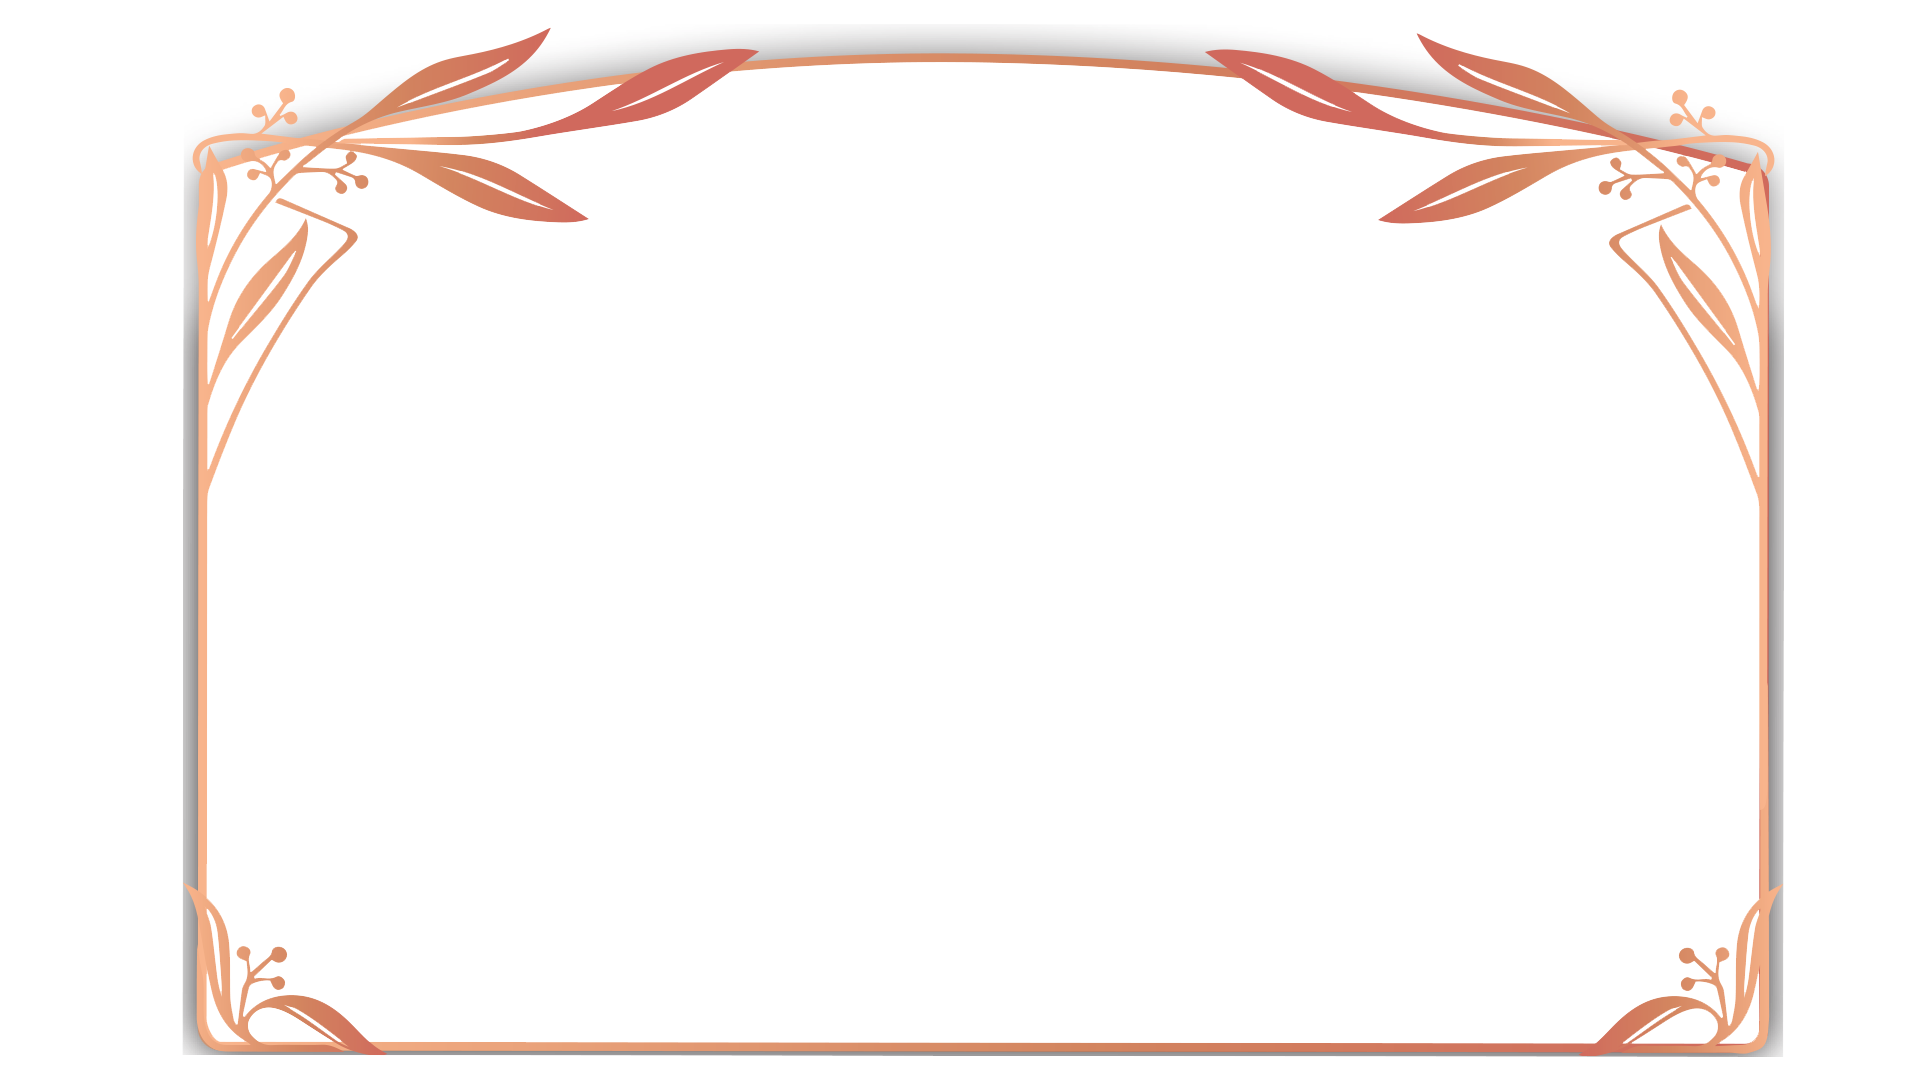
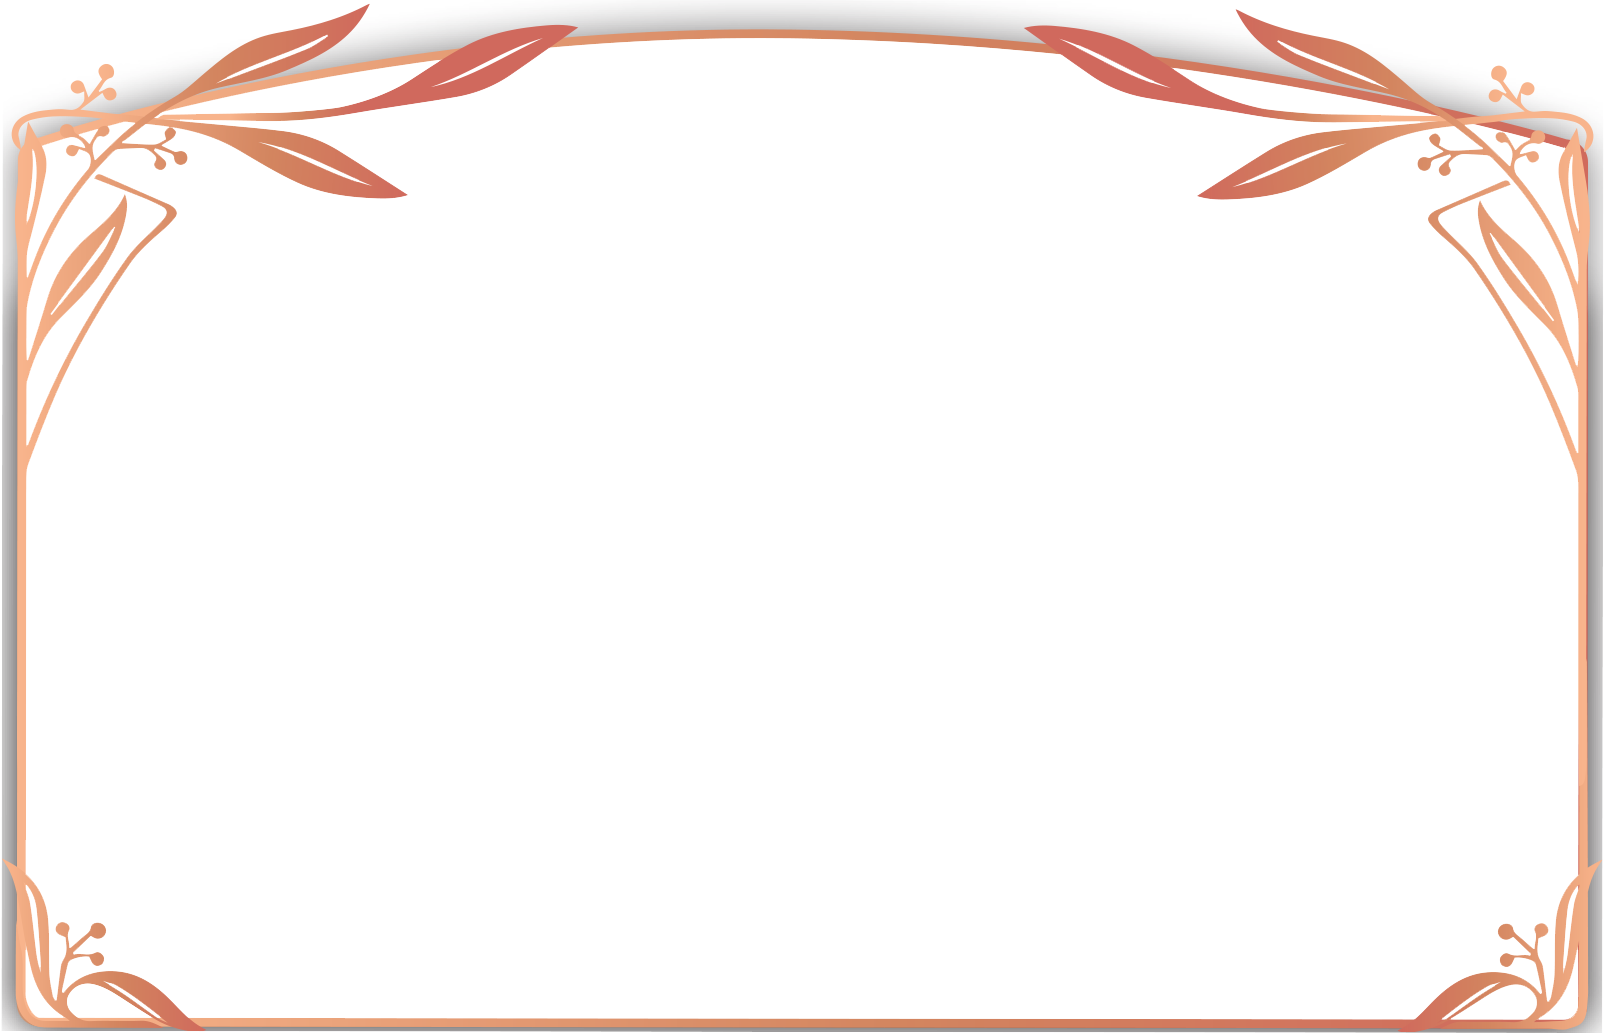
fighting with event page

Changed region(s): [[0.0, 0.0, 1.0, 1.0]]

diff --git a/src/components/EventFrame/EventFrame.jsx b/src/components/EventFrame/EventFrame.jsx
@@ -6,42 +6,98 @@ import VimeoFrame from "../../components/VimeoFrame/VimeoFrame";
 
 const useStyles = makeStyles(() => ({
   root: {
-    position: "relative",
-    display: "flex",
+    // display: "flex",
+    // position: "absolute",
+    // alignItems: "center",
+    // justifyContent: "center",
+    width: "60vw",
+    height: "80vh",
+    // "@media (max-width: 500px)": { height: "40vh" },
+    display: "grid",
     alignItems: "center",
-    justifyContent: "center",
+    "@media (max-width: 1024px)": { width: "100vw", height: "60vh" },
+  },
+  bg: {
+    backgroundColor: "rgb(69, 119, 135)",
+    justifySelf: "center",
+    alignSelf: "center",
+    height: "95%",
+    width: "97%",
+    borderTopLeftRadius: "70% 20%",
+    borderTopRightRadius: "70% 20%",
+    borderBottomRightRadius: "2%",
+    borderBottomLeftRadius: "2%",
+    gridArea: "1 / 1",
+    marginBottom: "-3vh",
+    boxShadow: "0px 20px 20px black",
+
+    // "@media (max-width: 800px)": {
+    //   width: "98%",
+    //   height: "83%",
+    // marginBottom: "0",
+    // },
+    // "@media (max-width: 500px)": {
+    //   width: "98%",
+    //   height: "85%",
+    //   marginBottom: "0",
+    // },
+    // "@media (max-width: 300px)": {
+    //   width: "98%",
+    //   height: "90%",
+    //   marginBottom: "0",
+    // },
+    // "@media (max-height: 850px)": {
+    //   width: "98%",
+    //   height: "70%",
+    //   marginBottom: "0",
+    // },
   },
   vines: {
-    // backgroundImage: `url(${vineborder})`,
-    height: "80vh",
-    width: "80vw",
-    position: "absolute",
+    backgroundImage: `url(${vineborder})`,
+    height: "100%",
+    width: "100%",
     backgroundSize: "contain",
     backgroundPosition: "center",
     backgroundRepeat: "no-repeat",
-  },
-  logo: { backgroundImage: `url(${logo})`, width: "50vw" },
-  vimeoframe: {
+    pointerEvents: "none",
+    zIndex: "5000",
+    gridArea: "1/1",
+    alignSelf: "flex-end",
+    justifySelf: "center",
     display: "flex",
+    // gridTemplateAreas: "1 2 3",
     flexFlow: "column wrap",
-    width: "60vw",
-    margin: "0 auto",
-    padding: "56.25% 0 0 0",
-    position: "relative",
+    alignItems: "center",
     "@media (max-width: 1024px)": { width: "100vw" },
+  },
+  logo: {
+    // gridArea: "2",
+    // alignSelf: "flex-start",
+    // justifySelf: "center",
+    "@media (max-width: 500px)": { width: "12vw" },
+  },
+  vimeoframe: {
+    marginBottom: "1vh",
+    gridArea: "1/1",
+    width: "95%",
+    alignSelf: "flex-end",
+    justifySelf: "center",
+    "@media (max-width: 1024px)": { width: "90%", marginBottom: "0" },
   },
 }));
 
-export default function EventFrame(props) {
+export default function EventFrame() {
   const classes = useStyles();
   return (
     <div className={classes.root}>
+      <div className={classes.bg}></div>
+      <div className={classes.vines}>
+        <img className={classes.logo} src={logo} alt="logo" />
+      </div>
+
       <div className={classes.vimeoframe}>
         <VimeoFrame />
       </div>
-      <img src={vineborder} className={classes.vines} />
-      {/* <div className={classes.vines}></div> */}
-      {/* <div className={classes.logo} /> */}
     </div>
   );
 }

diff --git a/src/App.js b/src/App.js
@@ -1,7 +1,11 @@
 import React, { useEffect, useState } from "react";
 import { Route, Switch, useHistory } from "react-router-dom";
 import theme from "./styles/muiTheme";
-import { makeStyles, ThemeProvider } from "@material-ui/core";
+import {
+  makeStyles,
+  responsiveFontSizes,
+  ThemeProvider,
+} from "@material-ui/core";
 import { UserContext } from "./context/UserContext";
 import Welcome from "./screens/Welcome/Welcome";
 import Layout from "./components/shared/Layout";
@@ -37,14 +41,21 @@ function App() {
     const response = await checkAndUpdate(guestData);
     if (response.table) {
       const tableNumber = response.table.table_number;
-      setCurrentGuest(response.guest);
+      setCurrentGuest(response);
       history.push(`/table/${tableNumber}`);
     } else {
       window.alert(response);
     }
   };
 
-  const verifyGuest = () => {};
+  const verifyGuest = () => {
+    const resp = checkLoggedIn();
+    console.log(resp);
+  };
+
+  useEffect(() => {
+    verifyGuest();
+  }, []);
 
   const logoutGuest = () => {};
 

diff --git a/src/screens/Table/Table.jsx b/src/screens/Table/Table.jsx
@@ -1,6 +1,5 @@
 import { Button, makeStyles } from "@material-ui/core";
 import React from "react";
-import { useHistory, useParams } from "react-router-dom";
 import EventFrame from "../../components/EventFrame/EventFrame";
 
 const useStyles = makeStyles((theme) => ({
@@ -8,19 +7,25 @@ const useStyles = makeStyles((theme) => ({
     display: "flex",
     flexFlow: "column wrap",
     alignItems: "center",
+    justifyContent: "center",
     margin: "0 auto",
-    paddingBottom: "10vh",
+    // paddingBottom: "10vh",
+    height: "100vh",
+    width: "100vw",
   },
 }));
 
 export default function Table({ currentGuest }) {
   const classes = useStyles();
-  const history = useHistory();
-  const params = useParams();
 
   return (
     <div className={classes.event}>
       <EventFrame />
+      <a href={currentGuest?.table.zoom_link}>
+        <Button variant="outlined" color="primary">
+          Table Zoom Link
+        </Button>
+      </a>
     </div>
   );
 }

diff --git a/src/components/VimeoFrame/VimeoFrame.jsx b/src/components/VimeoFrame/VimeoFrame.jsx
@@ -2,20 +2,20 @@ import React from "react";
 
 export default function VimeoFrame() {
   return (
-    // <div style={{ padding: "56.25% 0 0 0", position: "relative" }}>
-    <iframe
-      src="https://vimeo.com/event/561439/embed/ebc54bd06d"
-      frameBorder="0"
-      allow="autoplay; fullscreen; picture-in-picture"
-      title="vimeo event"
-      style={{
-        position: "absolute",
-        top: 0,
-        left: 0,
-        width: "100%",
-        height: "100%",
-      }}
-    ></iframe>
-    // </div>
+    <div style={{ padding: "56.25% 0 0 0", position: "relative" }}>
+      <iframe
+        src="https://vimeo.com/event/561439/embed/ebc54bd06d"
+        frameBorder="0"
+        allow="autoplay; fullscreen; picture-in-picture"
+        title="vimeo event"
+        style={{
+          position: "absolute",
+          top: 0,
+          left: 0,
+          width: "100%",
+          height: "100%",
+        }}
+      ></iframe>
+    </div>
   );
 }

diff --git a/src/components/shared/Footer.jsx b/src/components/shared/Footer.jsx
@@ -9,6 +9,9 @@ const useStyles = makeStyles((theme) => ({
   },
   logo: {
     width: "20vw",
+    marginLeft: "1vw",
+    "@media (max-width: 1024px)": { width: "40vw" },
+    "@media (max-width: 500px)": { width: "60vw" },
   },
 }));
 
